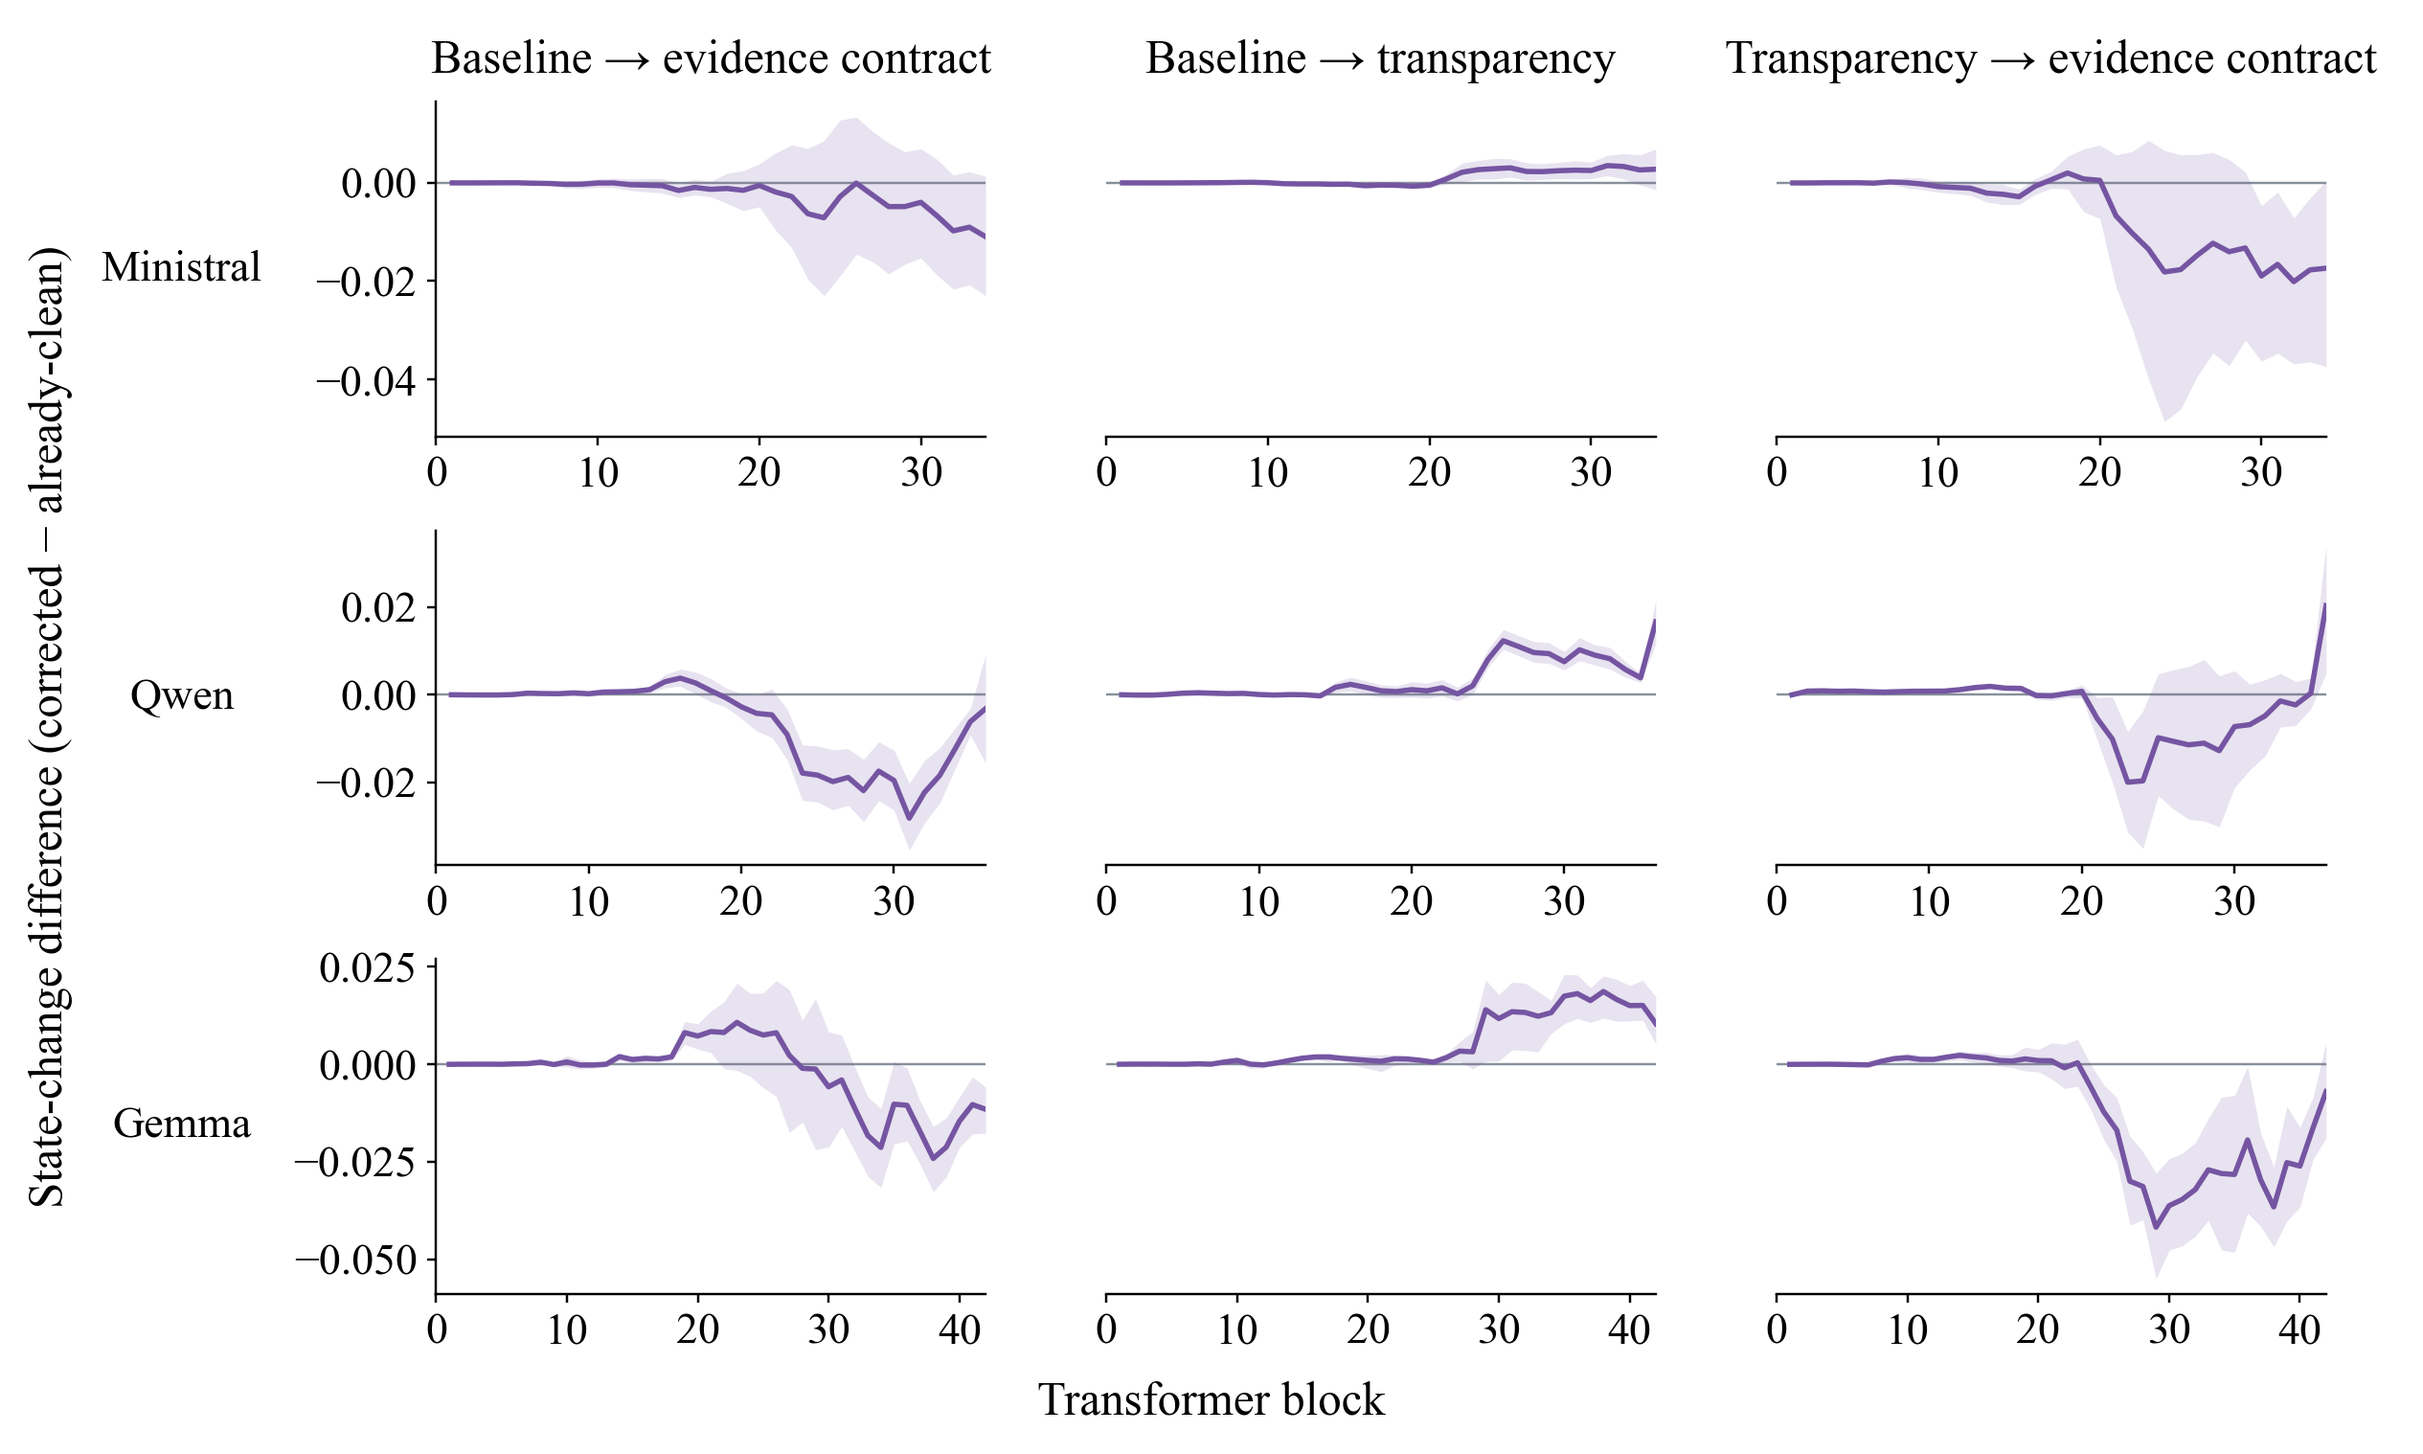
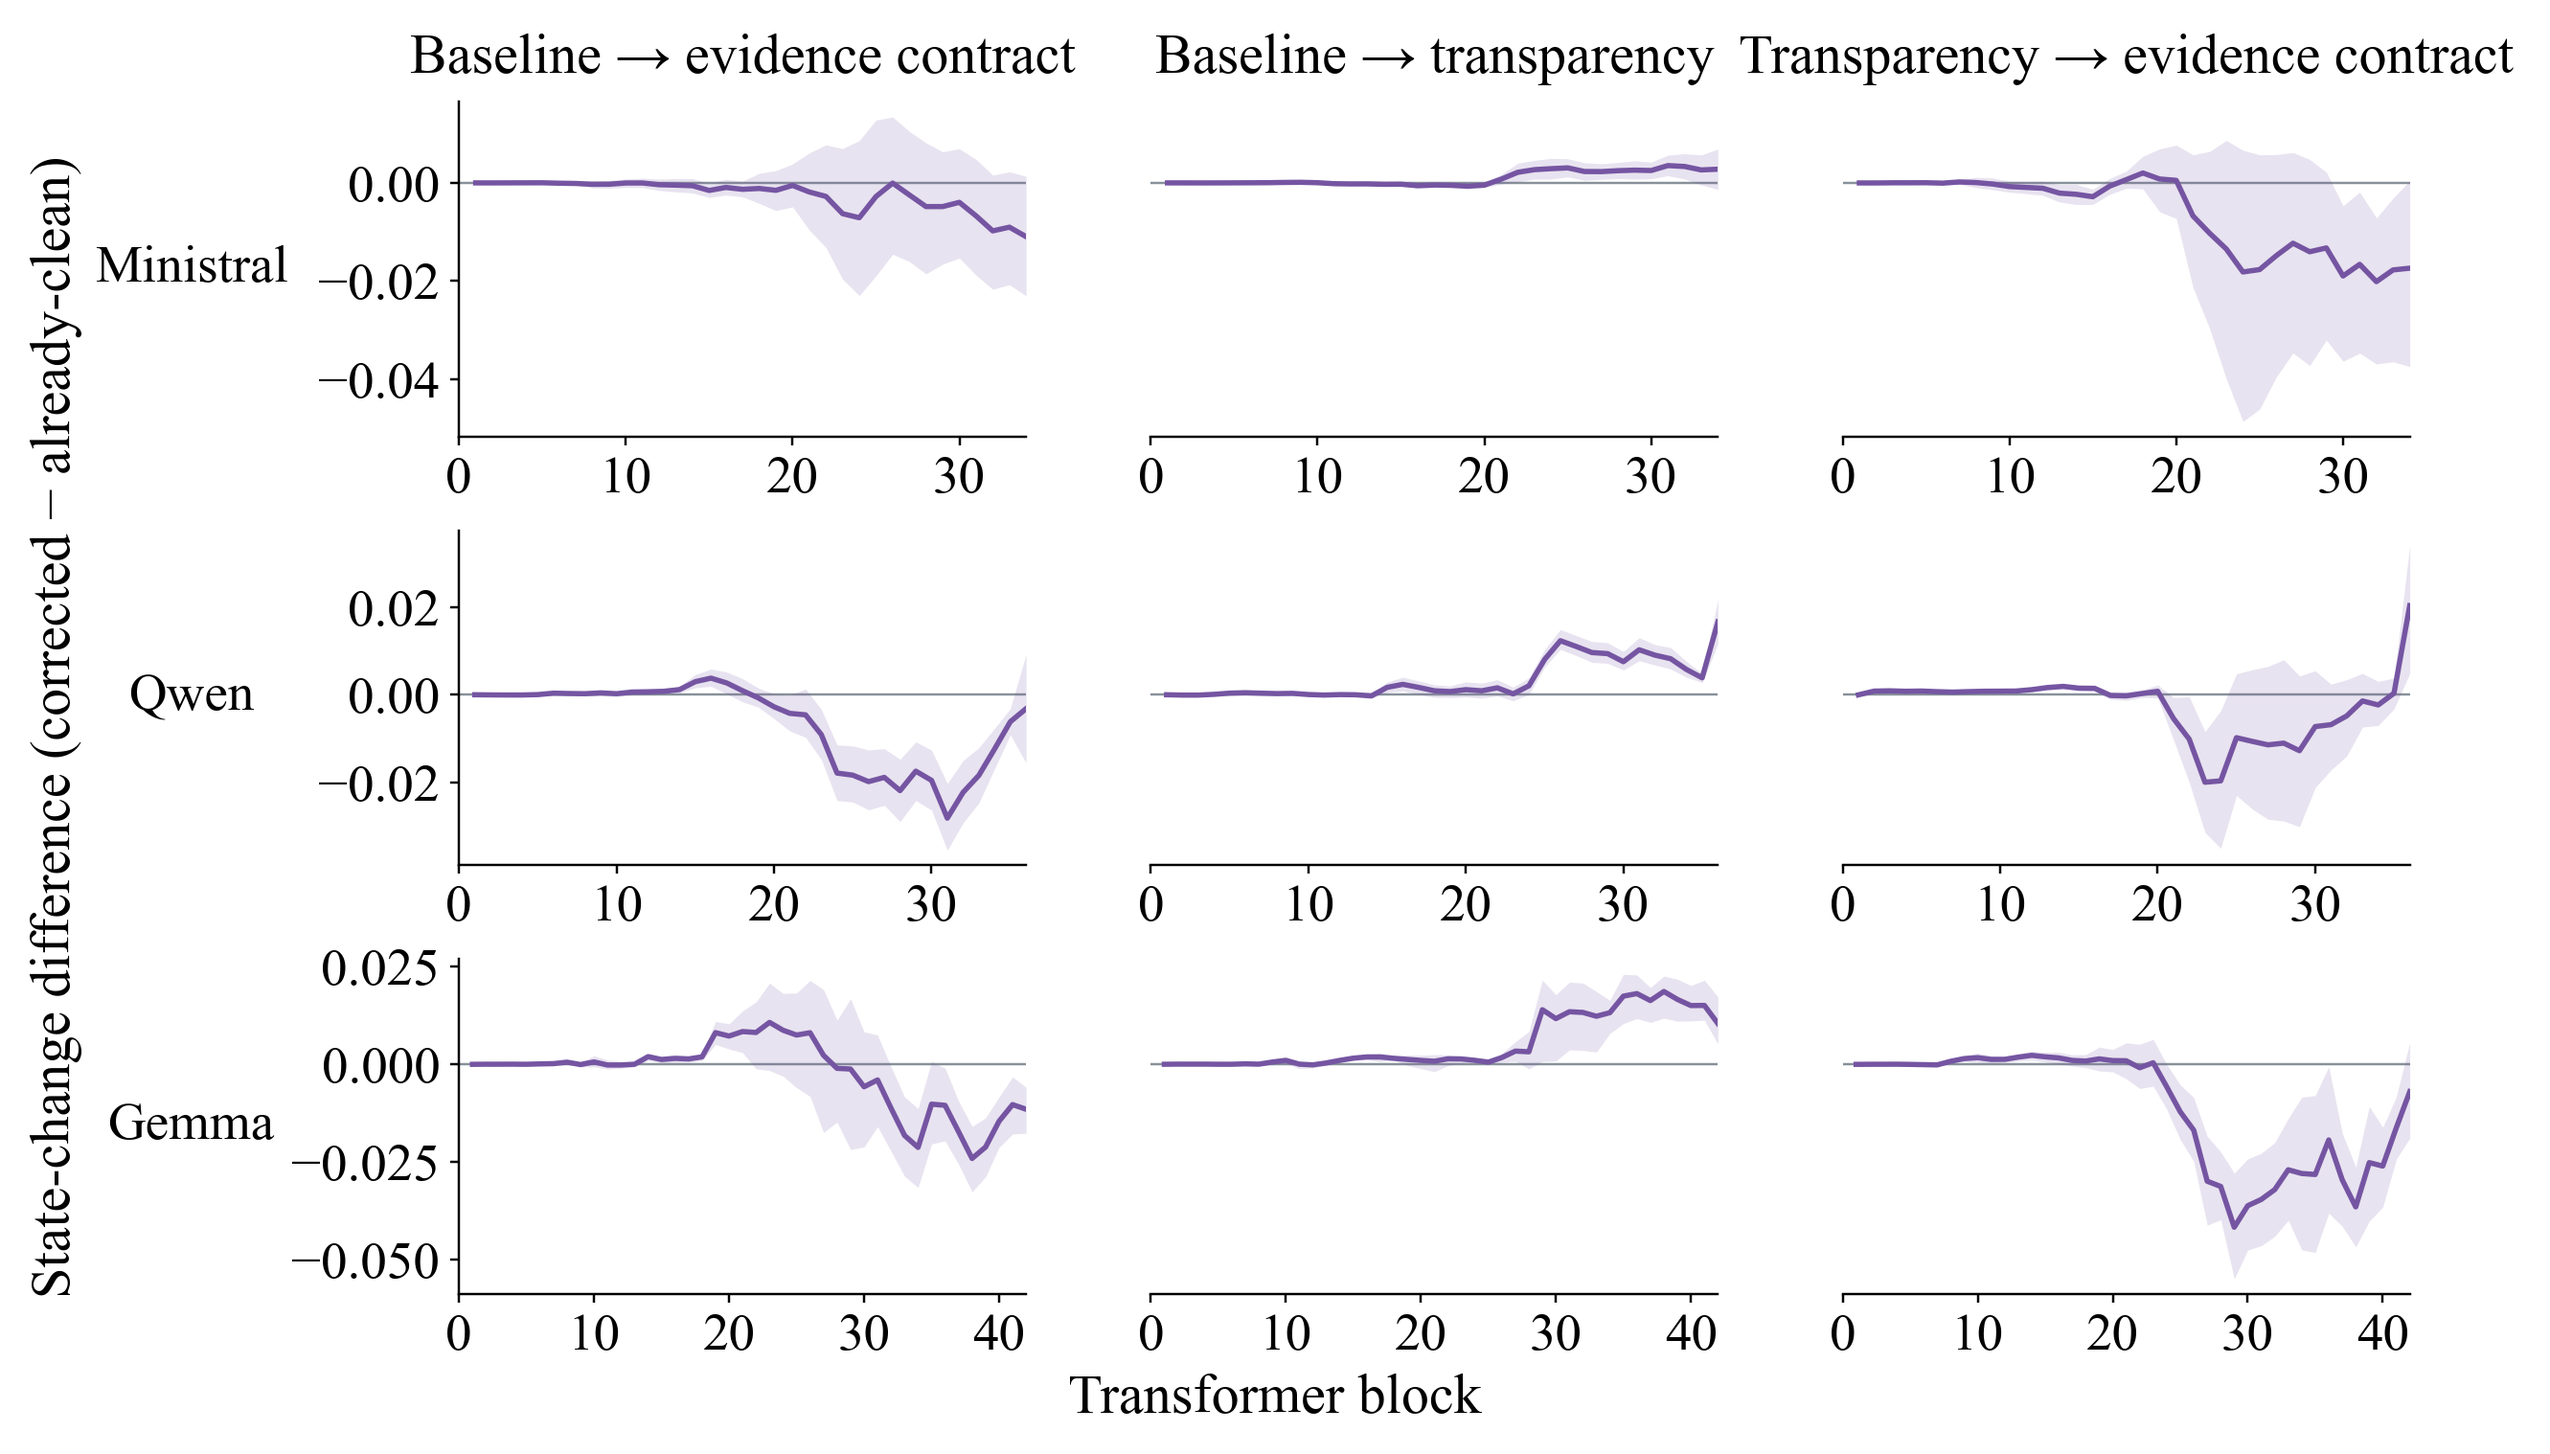
Increase state and PCA figure typography by another three points

diff --git a/pipelines/report.py b/pipelines/report.py
@@ -371,11 +371,11 @@ def render_internal_states_paper(root, output):
         ('transparency', 'evidence_contract', 'Transparency → evidence contract'),
     ]
     panels = {(p['model'], p['source_policy'], p['target_policy']): p for p in saved['panels']}
-    with plt.rc_context({'font.family': 'Times New Roman', 'font.size': 14,
+    with plt.rc_context({'font.family': 'Times New Roman', 'font.size': 17,
                          'axes.spines.top': False, 'axes.spines.right': False,
                          'pdf.fonttype': 42, 'ps.fonttype': 42}):
-        fig, axes = plt.subplots(3, 3, figsize=(11.5, 6.9), sharex='row', sharey='row')
-        fig.subplots_adjust(left=.18, right=.96, bottom=.11, top=.93, hspace=.28, wspace=.22)
+        fig, axes = plt.subplots(3, 3, figsize=(12.1, 6.9), sharex='row', sharey='row')
+        fig.subplots_adjust(left=.18, right=.945, bottom=.11, top=.93, hspace=.28, wspace=.22)
         for i, model in enumerate(models):
             for j, (source, target, title) in enumerate(pairs):
                 panel = panels[(model, source, target)]
@@ -390,17 +390,17 @@ def render_internal_states_paper(root, output):
                 ax.set_xlim(0, panel['blocks'])
                 ax.xaxis.set_major_locator(MultipleLocator(10))
                 ax.yaxis.set_major_locator(MaxNLocator(nbins=4))
-                ax.tick_params(axis='both', labelsize=15, length=3)
+                ax.tick_params(axis='both', labelsize=18, length=3)
                 if j:
                     ax.tick_params(axis='y', left=False, labelleft=False)
                     ax.spines['left'].set_visible(False)
                 if i == 0:
-                    ax.set_title(title, fontsize=16, pad=10)
+                    ax.set_title(title, fontsize=19, pad=10)
             position = axes[i, 0].get_position()
             fig.text(.075, (position.y0 + position.y1) / 2, names[model],
-                     ha='center', va='center', fontsize=15)
-        fig.supxlabel('Transformer block', fontsize=16, y=.02)
-        fig.supylabel('State-change difference (corrected − already-clean)', fontsize=16, x=.012)
+                     ha='center', va='center', fontsize=18)
+        fig.supxlabel('Transformer block', fontsize=19, y=.02)
+        fig.supylabel('State-change difference (corrected − already-clean)', fontsize=19, x=.012)
         fig.canvas.draw()
         renderer = fig.canvas.get_renderer()
         for title in (axis.title for axis in axes[0]):
@@ -413,7 +413,7 @@ def render_internal_states_paper(root, output):
         plt.close(fig)
     return {'source': 'results/internal_states_all.json:panels', 'panel_n': len(panels),
             'model_order': models, 'axis_limits': limits,
-            'font': 'Times New Roman', 'word_font_increase_pt': 3, 'number_font_increase_pt': 5,
+            'font': 'Times New Roman', 'word_font_increase_pt': 6, 'number_font_increase_pt': 8,
             'new_analysis': False}
 
 
@@ -500,9 +500,9 @@ def paper_figures(root: Path, output_dir: Path | None = None):
         "font_family": "Times New Roman", "resolved_font": font,
         "minimum_increase_pt": {"words": 3, "numbers": 5},
         "font_sizes_pt": {
-            "internal_states": {"titles": [13, 16], "models": [12, 15], "axes": [13, 16], "ticks": [10, 15]},
+            "internal_states": {"titles": [13, 19], "models": [12, 18], "axes": [13, 19], "ticks": [10, 18]},
             "summary": {"models_and_axis": [12, 15], "legend": [11, 14], "ticks": [12, 17], "percentages": [11, 16]},
-            "pca": {"legend": [10, 13], "titles": [11, 16], "axes": [9, 14], "ticks": [7, 12]},
+            "pca": {"legend": [10, 16], "titles": [11, 19], "axes": [9, 17], "ticks": [7, 15]},
             "workflow": {"nodes_and_titles": [14, 17], "unboxed_notes": [12, 15], "models": [12, 17], "input": [16, 21]}},
         "source_sha256": preserved, "saved_sources_unchanged": True,
         "new_answers": 0, "new_scoring": 0, "state_cache_reads": 0, "PCA_refits": 0,

diff --git a/pipelines/internal_states.py b/pipelines/internal_states.py
@@ -2690,7 +2690,7 @@ def pca_focused_figure(payload, output, *, large_times=False):
     colors = {"baseline": "#4c78a8", "transparency": "#1b9e77", "evidence_contract": "#e69f00"}
     groups = (("C-C-C", "o", "--", .13), ("W-W-C", "^", "-", .52))
     with plt.rc_context({"font.family": "Times New Roman" if large_times else "DejaVu Sans",
-                         "font.size": 12 if large_times else 9}):
+                         "font.size": 15 if large_times else 9}):
         figure = plt.figure(figsize=(16.6, 6.2) if large_times else (15, 5.2))
         for index, model in enumerate(payload["models"]):
             ax = figure.add_subplot(1, 3, index+1, projection="3d")
@@ -2718,14 +2718,16 @@ def pca_focused_figure(payload, output, *, large_times=False):
             ax.set(xlabel=labels[0], ylabel=labels[1], zlabel="",
                    xlim=model["axis_range"], ylim=model["axis_range"], zlim=model["axis_range"])
             if large_times:
-                ax.xaxis.label.set_size(14)
-                ax.yaxis.label.set_size(14)
+                ax.xaxis.label.set_size(17)
+                ax.yaxis.label.set_size(17)
                 ax.xaxis.labelpad = 9
                 ax.yaxis.labelpad = 9
+                for axis in (ax.xaxis, ax.yaxis, ax.zaxis):
+                    axis.set_major_locator(matplotlib.ticker.MultipleLocator(.2))
             ax.set_box_aspect((1, 1, 1))
             ax.view_init(elev=22, azim=40)
-            ax.tick_params(labelsize=12 if large_times else 7, pad=0)
-            ax.set_title(model["name"] + f" · 3 PCs: {100*sum(model['explained_variance_ratio']):.1f}%", fontsize=16 if large_times else 11, pad=7)
+            ax.tick_params(labelsize=15 if large_times else 7, pad=0)
+            ax.set_title(model["name"] + f" · 3 PCs: {100*sum(model['explained_variance_ratio']):.1f}%", fontsize=19 if large_times else 11, pad=7)
         handles = [Line2D([], [], color=color, lw=3, label=policy.replace("_", " ").capitalize())
                    for policy, color in colors.items()]
         handles += [Line2D([], [], marker="^", ls="-", color="#4b5563",
@@ -2733,14 +2735,14 @@ def pca_focused_figure(payload, output, *, large_times=False):
                     Line2D([], [], marker="o", ls="--", color="#88919a",
                           label="C-C-C")]
         figure.legend(handles=handles, loc="upper center", ncol=5, frameon=False,
-                      fontsize=13 if large_times else 10, bbox_to_anchor=(.5, .99))
+                      fontsize=16 if large_times else 10, bbox_to_anchor=(.5, .99))
         figure.subplots_adjust(left=.06, right=.97, bottom=.13 if large_times else .08,
                                top=.83, wspace=.30 if large_times else .24)
         for ax, model in zip(figure.axes, payload["models"]):
             position = ax.get_position()
             figure.text(position.x0-.035, (position.y0+position.y1)/2,
                 f"PC3 ({100*model['explained_variance_ratio'][2]:.1f}%)",
-                rotation=90, va="center", ha="center", fontsize=14 if large_times else 9)
+                rotation=90, va="center", ha="center", fontsize=17 if large_times else 9)
         figure.savefig(output, dpi=190, bbox_inches="tight", facecolor="white",
                        **({"pad_inches": .4} if large_times else {}))
         plt.close(figure)
